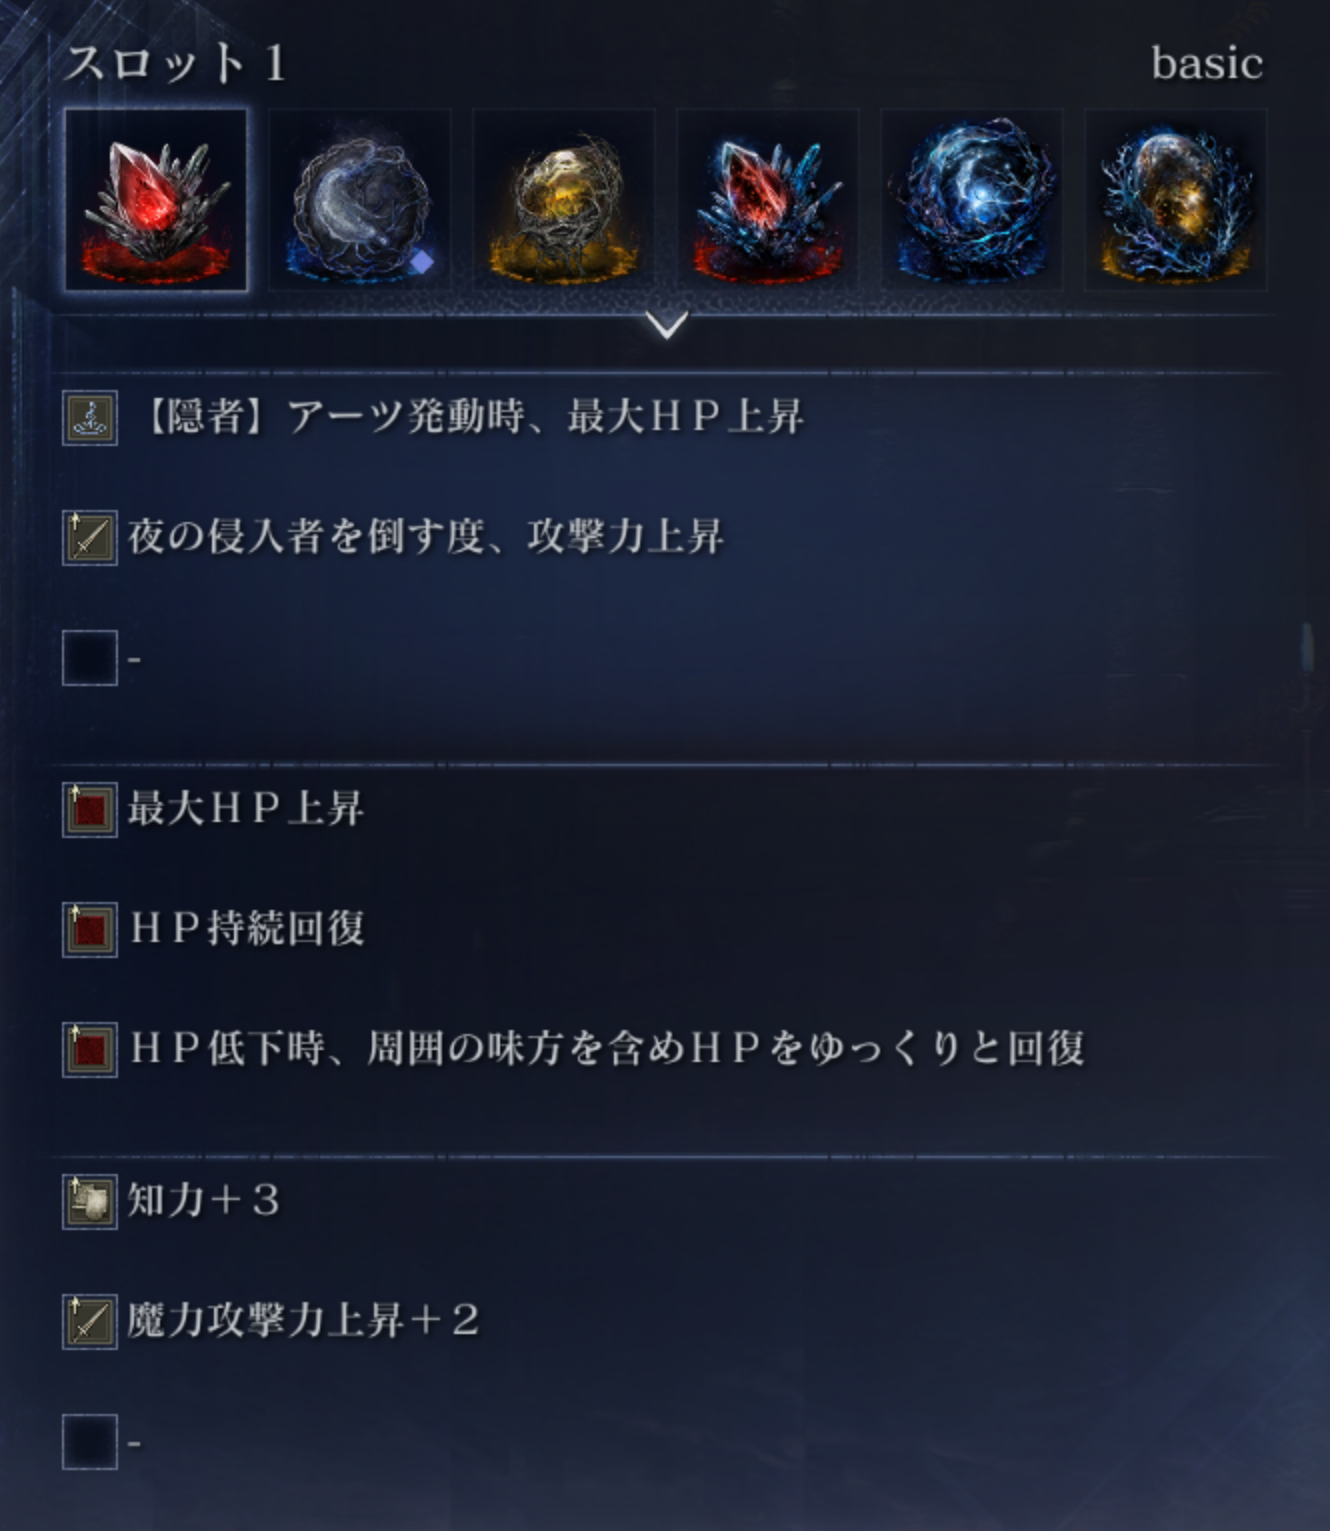
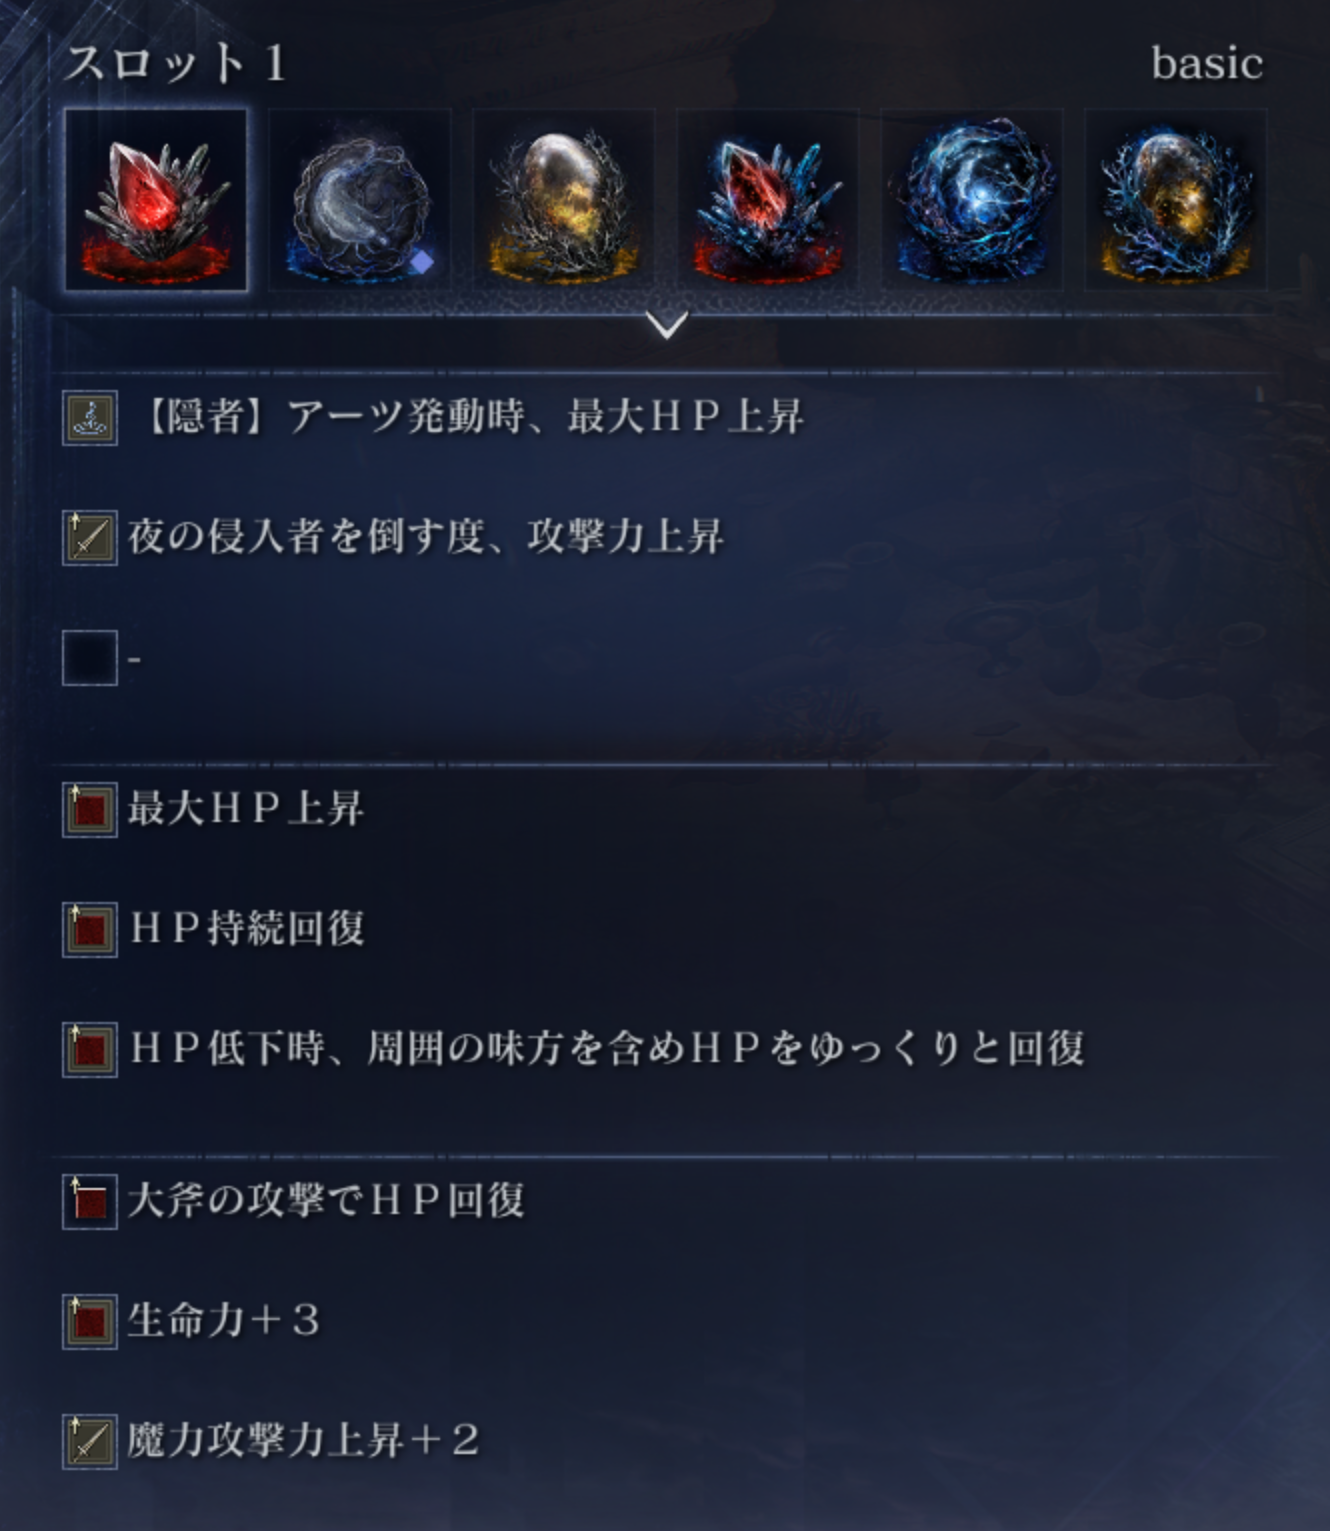
更新日ソート機能を追加、隠者リブラ・basicの遺物を更新

diff --git a/app.js b/app.js
@@ -4,9 +4,11 @@ async function main() {
 
   const characterMap = new Map(data.characters.map((c) => [c.id, c.name]));
   const characterIconMap = new Map(data.characters.map((c) => [c.id, c.icon]));
+  const characterOrderMap = new Map(data.characters.map((c, i) => [c.id, i]));
   const bossMap = new Map(data.bosses.map((b) => [b.id, b.name]));
   const bossIconMap = new Map(data.bosses.map((b) => [b.id, b.icon]));
   const bossEnMap = new Map(data.bosses.map((b) => [b.id, b.nameEn]));
+  const bossOrderMap = new Map(data.bosses.map((b, i) => [b.id, i]));
 
   const characterFilter = document.getElementById("characterFilter");
   const characterFilterBottom = document.getElementById("characterFilterBottom");
@@ -14,17 +16,21 @@ async function main() {
   const bossFilter = document.getElementById("bossFilter");
   const bossFilterBottom = document.getElementById("bossFilterBottom");
   const bossFilterContainers = [bossFilter, bossFilterBottom];
+  const sortFilter = document.getElementById("sortFilter");
   const cardGrid = document.getElementById("cardGrid");
   const emptyState = document.getElementById("emptyState");
   const allBossIds = data.bosses.map((b) => b.id).filter((id) => id !== "unknown" && id !== "play");
 
   const validCharacterIds = new Set(["all", ...data.characters.map((c) => c.id)]);
   const validBossIds = new Set(["all", ...data.bosses.map((b) => b.id)]);
+  const validSortIds = new Set(["default", "new", "old"]);
   const params = new URLSearchParams(location.search);
   const paramCharacter = params.get("character");
   const paramBoss = params.get("boss");
+  const paramSort = params.get("sort");
   let selectedCharacter = validCharacterIds.has(paramCharacter) ? paramCharacter : "all";
   let selectedBoss = validBossIds.has(paramBoss) ? paramBoss : "all";
+  let selectedSort = validSortIds.has(paramSort) ? paramSort : "default";
 
   loadLastUpdate();
 
@@ -132,6 +138,32 @@ async function main() {
     }
   }
 
+  function buildSortButton(id, label) {
+    const btn = document.createElement("button");
+    btn.type = "button";
+    btn.className = "character-btn";
+    btn.dataset.sortId = id;
+
+    const name = document.createElement("span");
+    name.className = "character-btn-label";
+    name.textContent = label;
+    btn.appendChild(name);
+
+    btn.addEventListener("click", () => {
+      selectedSort = id;
+      updateActiveButton();
+      updateUrl();
+      render();
+      scrollToTop();
+    });
+
+    return btn;
+  }
+
+  sortFilter.appendChild(buildSortButton("default", "ボス順"));
+  sortFilter.appendChild(buildSortButton("new", "更新日が新しい順"));
+  sortFilter.appendChild(buildSortButton("old", "更新日が古い順"));
+
   function updateUrl() {
     const url = new URL(location.href);
     if (selectedCharacter === "all") {
@@ -143,6 +175,11 @@ async function main() {
       url.searchParams.delete("boss");
     } else {
       url.searchParams.set("boss", selectedBoss);
+    }
+    if (selectedSort === "default") {
+      url.searchParams.delete("sort");
+    } else {
+      url.searchParams.set("sort", selectedSort);
     }
     history.replaceState(null, "", url);
   }
@@ -158,6 +195,9 @@ async function main() {
         btn.classList.toggle("active", btn.dataset.bossId === selectedBoss);
       }
     }
+    for (const btn of sortFilter.querySelectorAll(".character-btn")) {
+      btn.classList.toggle("active", btn.dataset.sortId === selectedSort);
+    }
   }
 
   function render() {
@@ -168,6 +208,20 @@ async function main() {
         selectedBoss === "all" || entryBossIds.length === 0 || entryBossIds.includes(selectedBoss);
       return characterMatch && bossMatch;
     });
+
+    if (selectedSort === "new") {
+      filtered.sort((a, b) => (b.createdAt ?? "").localeCompare(a.createdAt ?? ""));
+    } else if (selectedSort === "old") {
+      filtered.sort((a, b) => (a.createdAt ?? "").localeCompare(b.createdAt ?? ""));
+    } else {
+      filtered.sort((a, b) => {
+        const charDiff = (characterOrderMap.get(a.characterId) ?? 0) - (characterOrderMap.get(b.characterId) ?? 0);
+        if (charDiff !== 0) return charDiff;
+        const bossDiff =
+          (bossOrderMap.get((a.bossIds ?? [])[0]) ?? 0) - (bossOrderMap.get((b.bossIds ?? [])[0]) ?? 0);
+        return bossDiff;
+      });
+    }
 
     cardGrid.innerHTML = "";
     emptyState.hidden = filtered.length > 0;

diff --git a/style.css b/style.css
@@ -157,6 +157,16 @@ body {
   object-fit: contain;
 }
 
+.sort-filter {
+  display: flex;
+  flex-wrap: wrap;
+  align-items: center;
+  gap: 0.5rem;
+  margin-top: 0.6rem;
+  padding-top: 0.6rem;
+  border-top: 1px dashed var(--border);
+}
+
 .card-grid {
   display: grid;
   grid-template-columns: 1fr;

diff --git a/index.html b/index.html
@@ -41,6 +41,7 @@
 <section class="filters">
   <div id="characterFilter" class="character-filter"></div>
   <div id="bossFilter" class="boss-filter"></div>
+  <div id="sortFilter" class="sort-filter"></div>
 </section>
 
 <main id="cardGrid" class="card-grid"></main>
